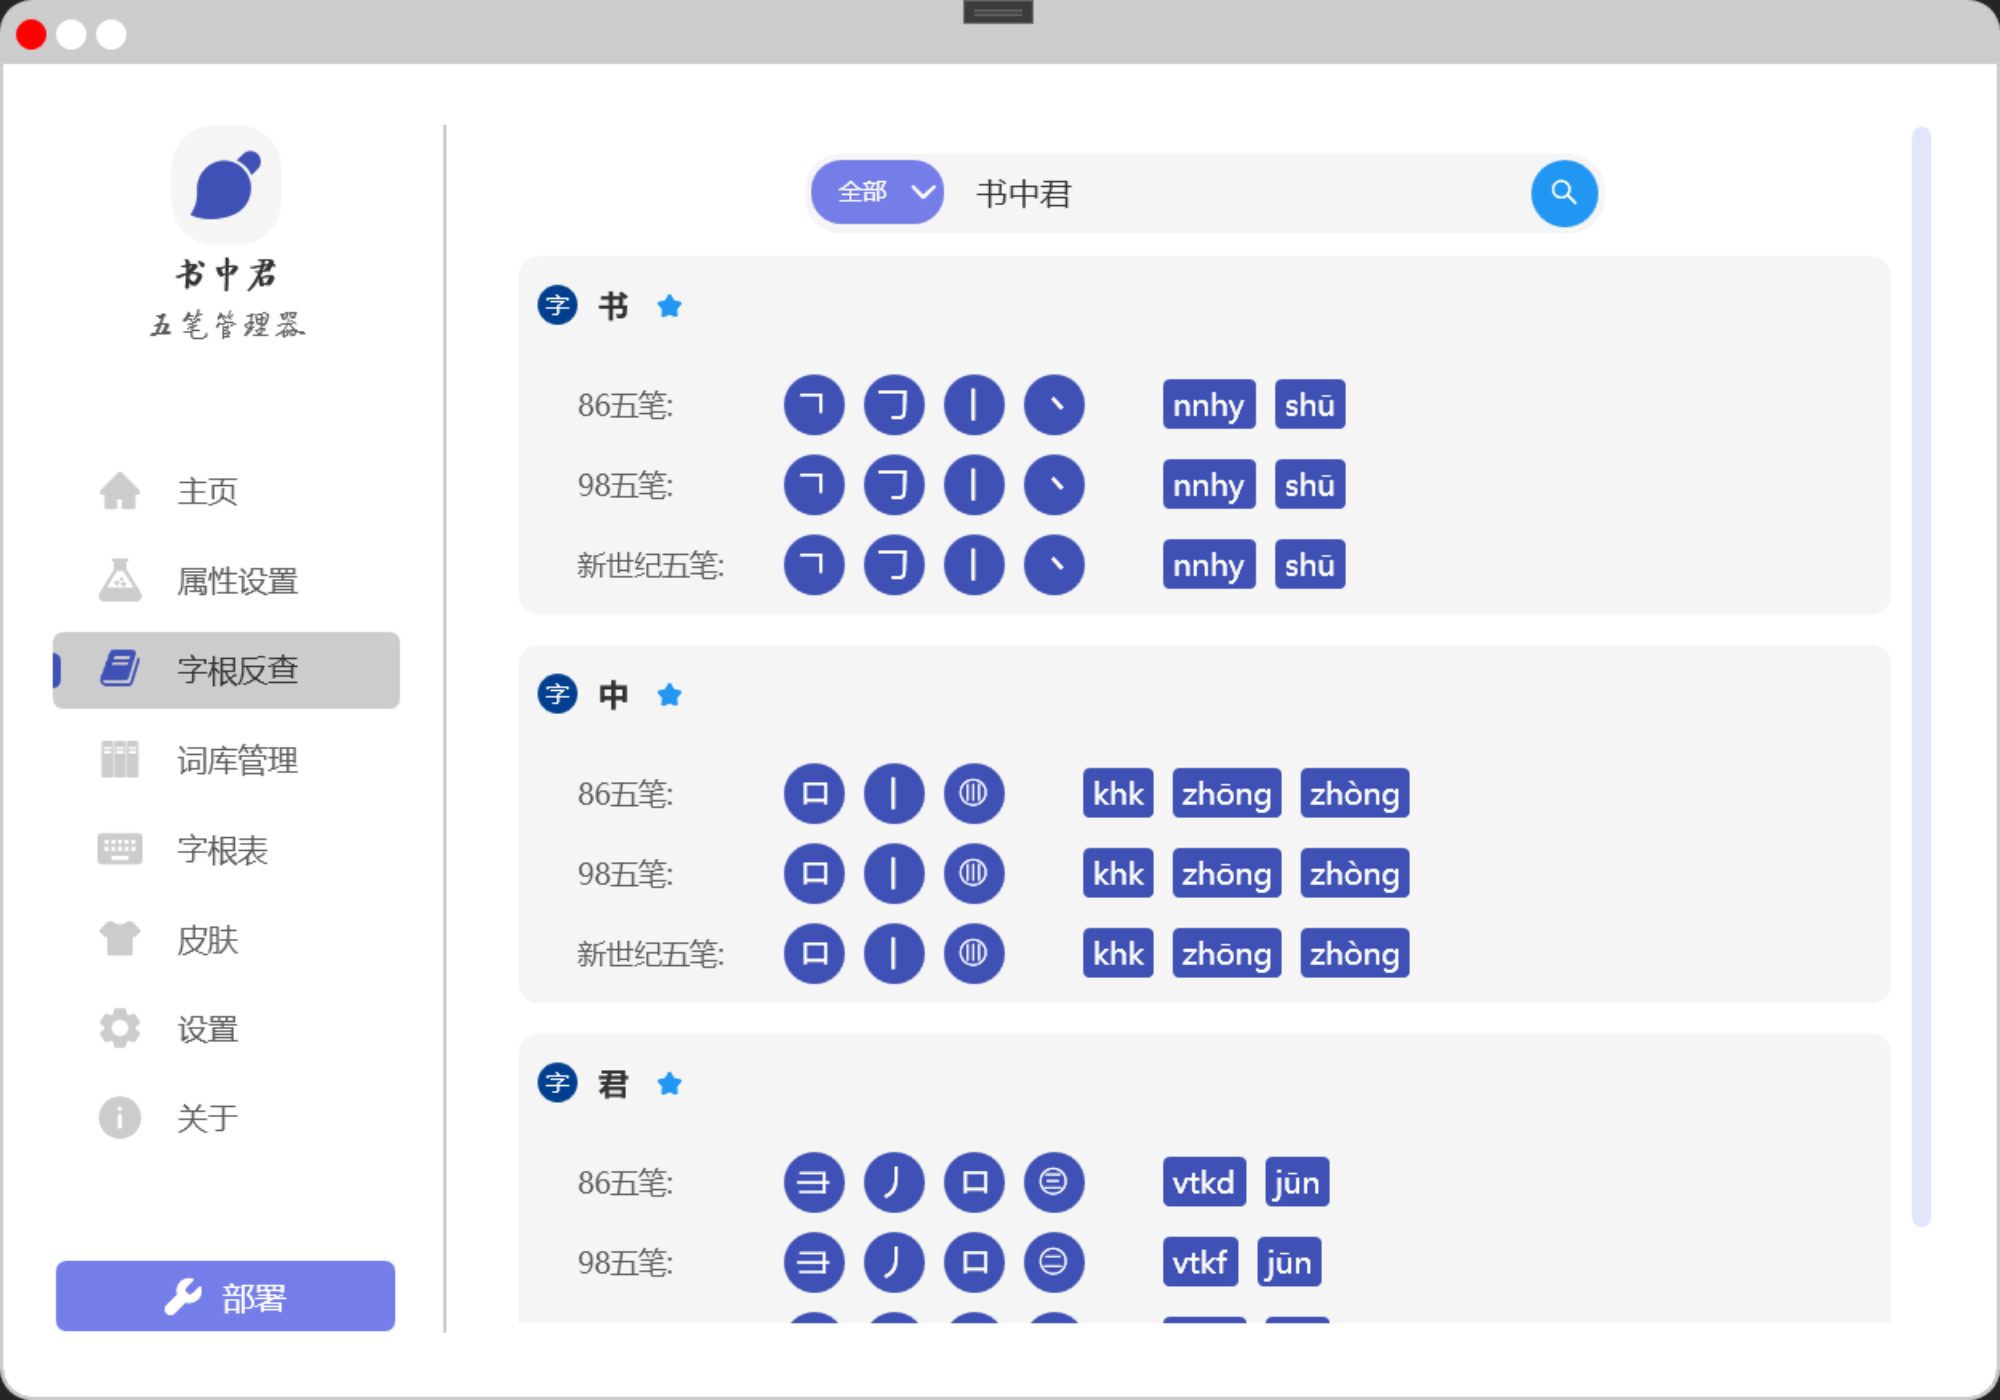
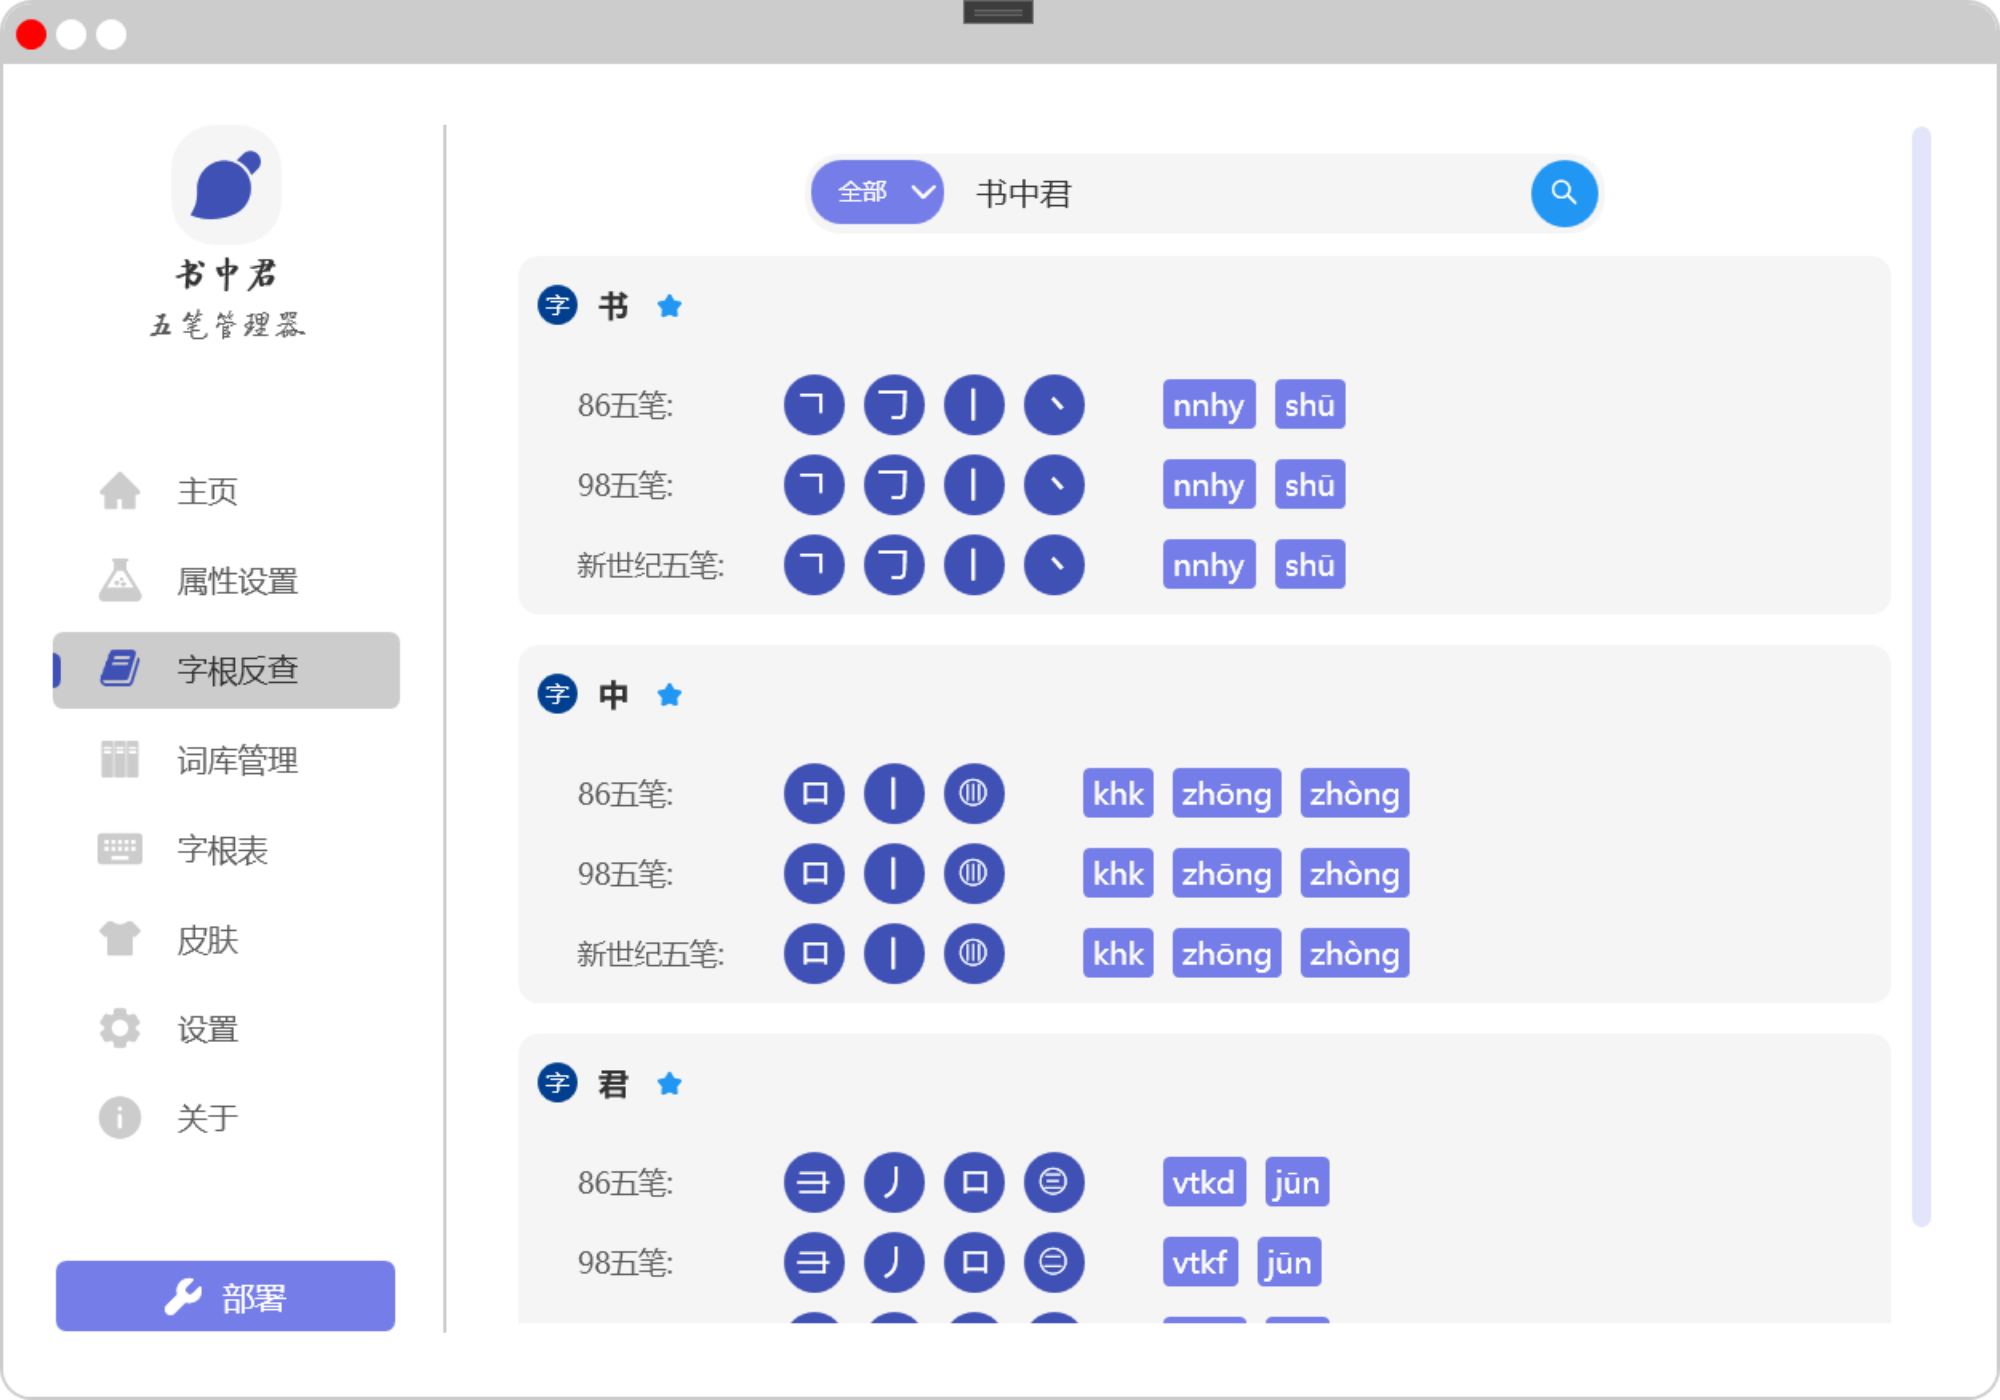
日志更新

diff --git a/README.md b/README.md
@@ -72,3 +72,13 @@
 - 2024-3-29 添加拆字查询功能（基础，无收藏与历史查询功能）
 - 2024-04-01 新增98方案一键配置功能
 - 2024-04-01 新增方案备份功能
+- 2024-04-03 更新汇总
+    1. 添加备份功能
+    2. 添加五笔引擎初始化功能
+    3. 添加86、98和新世纪码表切换功能
+    4. 优化新世纪码表
+    5. 修改五笔引擎默认样式
+    6. 添加回车查询功能
+    7. 字根页面添加记忆功能
+    8. 修复书中君切换皮肤重启后名称不一致问题
+    9. 修复了其他明显bug
